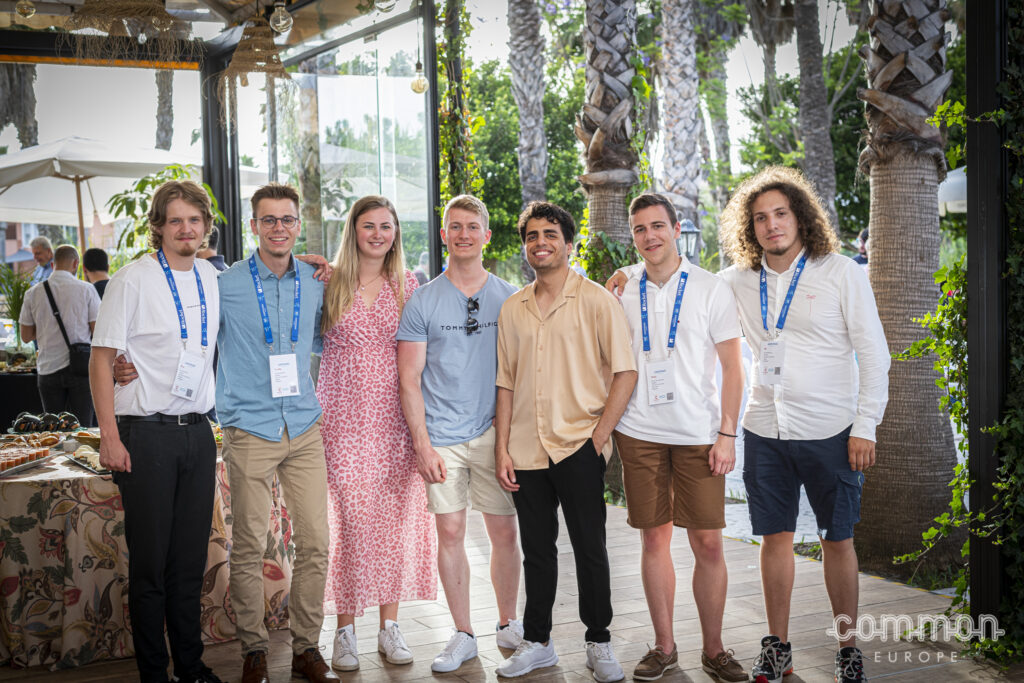
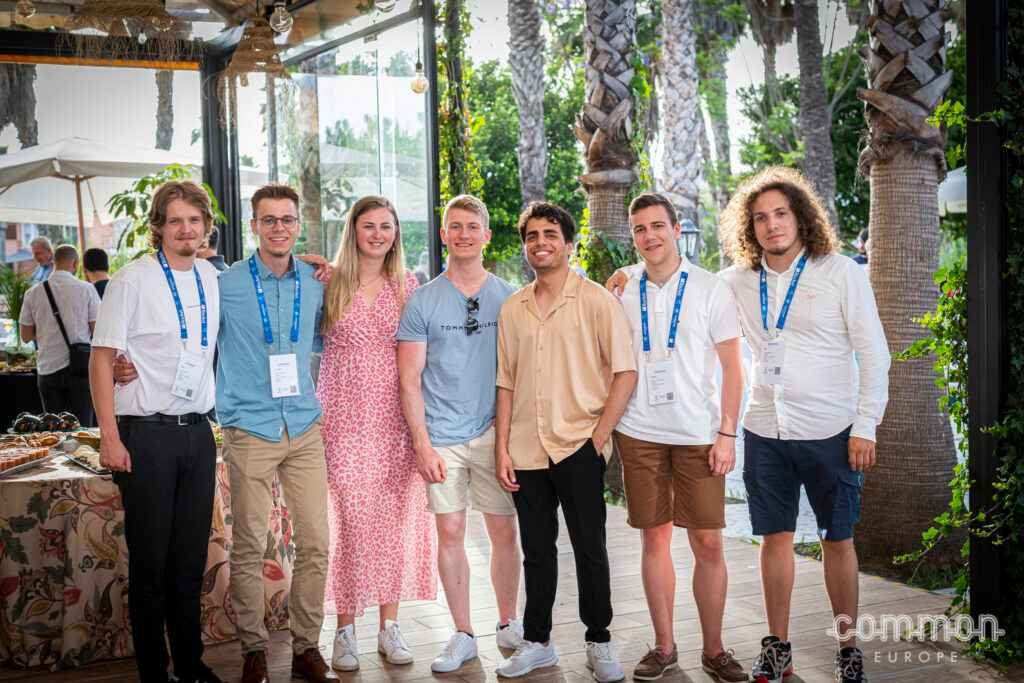
compressed images amd disabled unfinished project button

diff --git a/components/featured-blogposts/index.tsx b/components/featured-blogposts/index.tsx
@@ -1,38 +1,37 @@
 import Title from "../user-interface/title";
 import BlogPost from "../user-interface/blogpost";
 import { MainDiv, BlogPostDiv, BlogCTA } from "./styles";
-import SocialIconComponent from "../user-interface/social-icon";
 import { useEffect, useState } from "react";
 import { useTranslation } from "react-i18next";
 import "../../translations/i18n";
+import Link from "next/link";
 
 interface Props {}
 
 const FeaturedBlogposts = (props: Props) => {
     const { t } = useTranslation();
-    const [ isDesktop, setisDesktop ] = useState(false);
+    const [isDesktop, setisDesktop] = useState(false);
     useEffect(() => {
-            if (typeof window !== "undefined") {
+        if (typeof window !== "undefined") {
             setisDesktop(window.innerWidth > 992);
         }
-        },[]);
+    }, []);
     return (
         <>
             <MainDiv>
-                <Title isMainTitle content={t('featuredBlogpostsTitle')} />
+                <Title isMainTitle content={t("featuredBlogpostsTitle")} />
                 <BlogPostDiv>
-                    <BlogPost blogpost='spinaker' />
-                    <BlogPost blogpost='commonEurope' />
-                    {isDesktop && <BlogPost blogpost='third'/>}
+                    <BlogPost blogpost="spinaker" />
+                    <BlogPost blogpost="commonEurope" />
+                    {isDesktop && <BlogPost blogpost="third" />}
                 </BlogPostDiv>
                 <BlogCTA>
-                {t('featuredBlogpostsMore')}
-                    <SocialIconComponent
-                        isArrowIcon
-                        link="/blog"
-                        src="/images/icons/right-arrow.svg"
-                        alt="rightarrow"
-                    />{" "}
+                    <Link href="/blog">
+                        <div>
+                        {t("featuredBlogpostsMore")}
+                        <img loading="lazy" src="/images/icons/right-arrow.svg" alt="rightarrow" height="15px" width="30px" />
+                        </div>
+                    </Link>
                 </BlogCTA>
             </MainDiv>
         </>

diff --git a/components/user-interface/project/index.tsx b/components/user-interface/project/index.tsx
@@ -10,11 +10,12 @@ import "../../../translations/i18n";
 interface Props {
     project: string;
     stackTags: string[];
+    disabled?: boolean;
 }
 
 const ProjectComponent = (props: Props) => {
     const { t } = useTranslation();
-    const { project, stackTags } = props;
+    const { project, stackTags, disabled } = props;
     return (
         <>
             <MainDiv>
@@ -28,7 +29,7 @@ const ProjectComponent = (props: Props) => {
                     <Paragraph
                         content={t(project + "Summary")}
                     />
-                    <Button href={'/project/' + project} isProjectButton content={t("projectCTA")} />
+                    <Button disabled={disabled} href={'/project/' + project} isProjectButton content={t( disabled ? "projectDisabled" : "projectCTA")} />
                 </ContentDiv>
                 <Image isProjectClickbait project={project} src={t(project + "Src")} alt={t(project + "Alt")} />
             </MainDiv>

diff --git a/components/user-interface/button/index.tsx b/components/user-interface/button/index.tsx
@@ -7,10 +7,11 @@ interface Props {
     isProjectButton?: boolean;
     href?: string;
     isResumeButton?: boolean;
+    disabled?: boolean;
 }
 
 const ButtonComponent = (props: Props) => {
-    const { content, isProjectButton, href, isResumeButton } = props;
+    const { content, isProjectButton, href, isResumeButton, disabled } = props;
 
     return (
         <>
@@ -20,7 +21,7 @@ const ButtonComponent = (props: Props) => {
                 </a>
             ) : (
                 <Link href={href!}>
-                    <Button className={cs({ projectButton: isProjectButton })}>{content}</Button>
+                    <Button disabled={disabled} className={cs({ projectButton: isProjectButton, disabled: disabled })}>{content}</Button>
                 </Link>
             )}
         </>

diff --git a/components/user-interface/button/styles.ts b/components/user-interface/button/styles.ts
@@ -33,4 +33,21 @@ export const Button = styled.button`
         text-decoration: none;
         color: ${colors.primaryText};
     }
+    &.disabled{
+        &::after {
+            content: "";
+            background-color: darkgrey;
+            width: 100%;
+            position: absolute;
+            z-index: -1;
+            height: 100%;
+            top: -10px;
+            left: -10px;
+            transition: 0.3s;
+        }
+        &:hover::after {
+            top: 0px;
+            left: 0px;
+        }
+    }
 `;

diff --git a/components/user-interface/blogpost/index.tsx b/components/user-interface/blogpost/index.tsx
@@ -29,7 +29,7 @@ const BlogPost = (props: Props) => {
                         isSmallParagraph
                         content={t(blogpost + 'SmallRecap')}
                     />
-                    <Link href="/blogpost">
+                    <Link href={"/blogpost/" + blogpost}>
                         <BlogLink>{t('featuredBlogpostsCTA')}</BlogLink>
                     </Link>
                 </ContentDiv>

diff --git a/components/projects/index.tsx b/components/projects/index.tsx
@@ -28,6 +28,7 @@ const ProjectsComponent = (props: Props) => {
                         project="portfolio"
                     />
                     <Project
+                        disabled
                         stackTags={[
                             "React",
                             "Typescript",

diff --git a/translations/en/translations.js b/translations/en/translations.js
@@ -179,6 +179,7 @@ export const englishTranslations = {
     projectGoalTitle: `Project Purpose and Goal`,
     projectStackTitle: `Web Stack and Explanation`,
     projectFurtherTitle: `Further work`,
+    projectDisabled: "Coming soon",
 
     //portfolio project
     portfolioTitle: `Portfolio website`,

diff --git a/translations/nl/translations.js b/translations/nl/translations.js
@@ -181,6 +181,7 @@ export const dutchTranslations = {
     projectGoalTitle: `Doel van het project`,
     projectStackTitle: `Uitleg van de web stack`,
     projectFurtherTitle: `Toekomstig werk`,
+    projectDisabled: "Binnenkort",
 
     //portfolio project
     portfolioTitle: `Portfolio website`,
